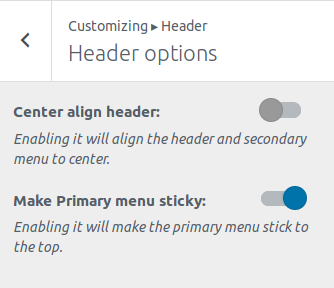
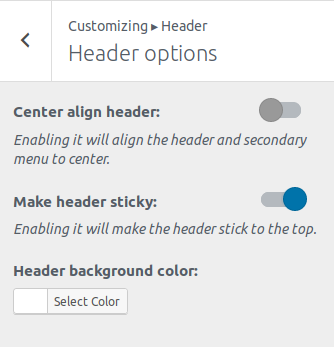
Update documenation for header color option added.

diff --git a/site/header-options/index.html b/site/header-options/index.html
@@ -178,6 +178,8 @@ Click Select Image to open the Media Library. Select an image from it or upload 
 <ul>
 <li><strong>Center align header</strong> – Enabling it will align the header and secondary menu to center.</li>
 <li><strong>Make Primary Menu sticky</strong> – Enabling it will make the primary menu stick to the top.</li>
+<li><strong>Header background color</strong> – Change the background of the header with the colorpicker as your need.
+<img alt="Header Background Color Change" src="../img/header-color.gif" /></li>
 </ul>
 <h3 id="featured-section">Featured Section</h3>
 <p>This section will enable you to show the featured section.</p>

diff --git a/site/index.html b/site/index.html
@@ -220,5 +220,5 @@
 
 <!--
 MkDocs version : 1.0.4
-Build Date UTC : 2019-04-27 06:18:36
+Build Date UTC : 2019-05-08 16:34:28
 -->

diff --git a/docs/header-options.md b/docs/header-options.md
@@ -26,7 +26,8 @@ Click Select Image to open the Media Library. Select an image from it or upload 
 
 * **Center align header** – Enabling it will align the header and secondary menu to center.
 * **Make Primary Menu sticky** – Enabling it will make the primary menu stick to the top.
-
+* **Header background color** – Change the background of the header with the colorpicker as your need.
+![Header Background Color Change](img/header-color.gif)
 
 ### Featured Section
 This section will enable you to show the featured section.
